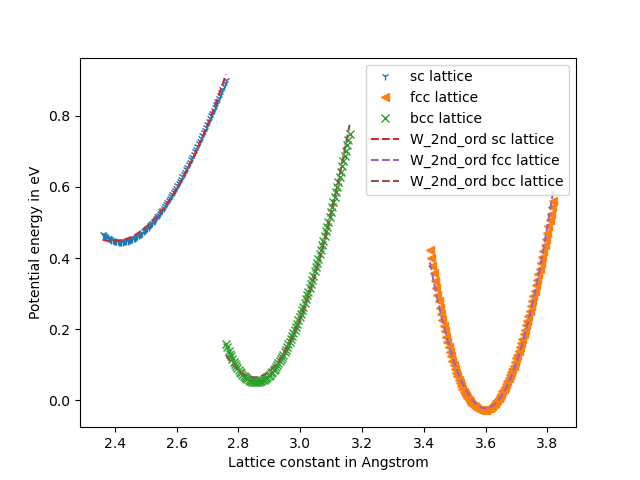
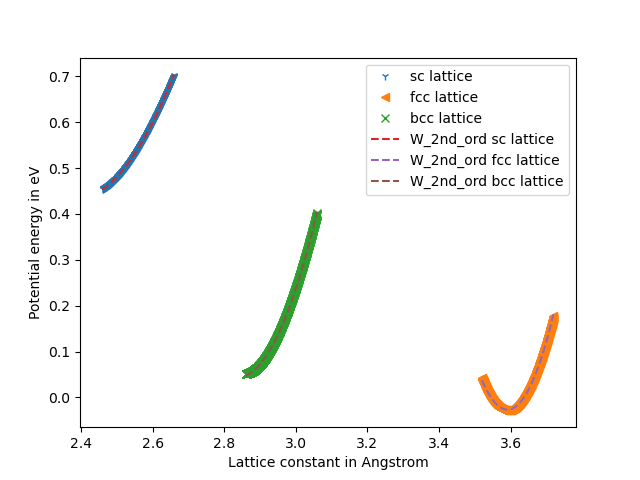
adjusting range of lattice constants

diff --git a/minimize_energy.py b/minimize_energy.py
@@ -25,7 +25,7 @@ def create_cubic_lattice(lattice_type, L):
 def calculate_latticeconst_epot_traj(lattice_type, L_init):
     traj_file = Trajectory(f'data_min_energy/{lattice_type}.traj', 'w')
     lattice_constants_list = []
-    for L in np.linspace(L_init - 0.2 , L_init + 0.2, 100):
+    for L in np.linspace(L_init - 0.1 , L_init + 0.1, 600):
         lattice_constants_list.append(L) # append current lattice constant
         data = create_cubic_lattice(lattice_type, L)
         data.set_calculator(EMT())
